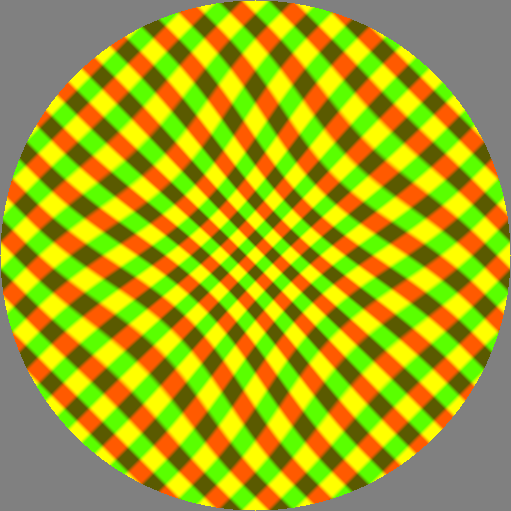
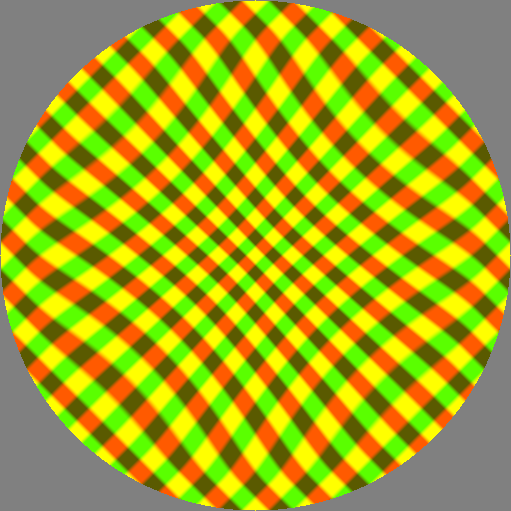
Update doc for improved "taper" in StretchSpot::getColor().

Changed region(s): [[0.0587, 0.0587, 0.9393, 0.9393], [0.2935, 0.2935, 0.7045, 0.7045]]

diff --git a/docs/index.html b/docs/index.html
@@ -132,16 +132,33 @@
       <img src="images/20200702_ss_new_020.png" alt="new StretchSpot(0.20, radius, Vec2(), plaid)"
         title="new StretchSpot(0.20, radius, Vec2(), plaid)" height="511" width="511">
       <p>[<strong>Update July 3</strong>] I was a little concerned about the
-        shape of some of those stripes in that last image.I tried it again using
-        <em>ColoredSpots</em> to overlay finer grain details on <code>plaid</code>.
-        The basic geometry of the <em>StretchSpot</em> seems correct, but I am
-        not happy with the profile of the radial scale transition. I feel like
-        there may be too much area at the center at nearly the lowest scale
-        factor (0.2) and and an abrupt transition outside of that where the
-        spots are stretched into long spoke-like ellipses. I'm trying to decide
-        if this is worth “fixing.”</p>
+        shape of some of those stripes in the previous version of that last
+        image (now replaced). I tried it again using <em>ColoredSpots</em> to
+        overlay finer grain details on <code>plaid</code>. The basic geometry
+        of the <em>StretchSpot</em> seemed correct, but I was not happy with
+        the “taper” of the radial scale transition. I felt like there was too
+        much area at the center at nearly the lowest scale factor (0.2) and and
+        an abrupt transition outside of that where the spots are stretched into
+        long spoke-like ellipses. So I rewrote that one-liner in the code, here
+        is before and after: </p>
       <pre>StretchSpot(0.20, radius, Vec2(), ColoredSpots(0.8, 0.02, 0.02, 0.01, 0, plaid, Uniform(0)))</pre>
-      <img src="images/20200703_ss_spots_020.png" alt="" title="" height="511" width="511">
+      <img src="images/20200703_ss_spots_020.png" alt="yesterday's troubling taper"
+        title="yesterday's troubling taper" height="511" width="511"> <img src="images/20200704_ss_spots_020.png"
+        alt="today's improved taper" title="today's improved taper" height="511"
+        width="511">
+      <p>The code transforms the general case to a unit radius disk at the
+        origin. Each point is remapped according to its radius. A non-linearity
+        is applied to this radius to produce a scale factor, which is clipped to
+        one. Before there was a sinusoid transition from <code>center_magnification</code>
+        (the first argument to <em>StretchSpot</em>) to 1. This sinusoid worked
+        well to blend the exterior scale factor of 1 (at the outside of the
+        texture in these examples) into the stretched interior, but it was “too
+        smooth” at the center. The new transition blends that sinusoid with a
+        linear ramp, using a highly exponentiated mapping (like a gamma), so
+        that the curve is mostly linear, except just before the “1 end” where it
+        smooths into the constant 1 value outside: <code>interpolate(pow(r, 5),
+          r, sinusoid(r))</code>. After this change I re-rendered the right side
+        images above to use this revised “scale taper.” </p>
       <p>As noted on <a href="http://www.red3d.com/cwr/texsyn/diary.html#20090104">January
           4, 2009</a>, the bugs and “near misses” for this operator produce
         interesting results. This was an early test:</p>

diff --git a/main.cpp b/main.cpp
@@ -2913,31 +2913,31 @@ int main(int argc, const char * argv[])
     
     float radius = 0.9;
     // Texture::displayAndFile(plaid);
-    Texture::displayAndFile(StretchSpot(1.50, radius, Vec2(), plaid)
-                            ); // , path + "ss_old_150");
-    Texture::displayAndFile(StretchSpot(0.67, radius, Vec2(), plaid)
-                            ); // , path + "ss_old_067");
-    Texture::displayAndFile(StretchSpot(2.00, radius, Vec2(), plaid)
-                            ); // , path + "ss_old_200");
-    Texture::displayAndFile(StretchSpot(0.50, radius, Vec2(), plaid)
-                            ); // , path + "ss_old_050");
-    Texture::displayAndFile(StretchSpot(5.00, radius, Vec2(), plaid)
-                            ); // , path + "ss_old_500");
-    Texture::displayAndFile(StretchSpot(0.20, radius, Vec2(), plaid)
-                            ); // , path + "ss_old_020");
+    //Texture::displayAndFile(StretchSpot(1.50, radius, Vec2(), plaid)
+    //                        ); // , path + "ss_old_150");
+    //Texture::displayAndFile(StretchSpot(0.67, radius, Vec2(), plaid)
+    //                        ); // , path + "ss_old_067");
+    //Texture::displayAndFile(StretchSpot(2.00, radius, Vec2(), plaid)
+    //                        ); // , path + "ss_old_200");
+    //Texture::displayAndFile(StretchSpot(0.50, radius, Vec2(), plaid)
+    //                        ); // , path + "ss_old_050");
+    //Texture::displayAndFile(StretchSpot(5.00, radius, Vec2(), plaid)
+    //                        ); // , path + "ss_old_500");
+    //Texture::displayAndFile(StretchSpot(0.20, radius, Vec2(), plaid)
+    //                        ); // , path + "ss_old_020");
     
-    //Texture::displayAndFile(NeoStretchSpot(1.50, radius, Vec2(), plaid)
-    //                        ); // , path + "ss_new_150");
-    //Texture::displayAndFile(NeoStretchSpot(0.67, radius, Vec2(), plaid)
-    //                        ); // , path + "ss_new_067");
-    //Texture::displayAndFile(NeoStretchSpot(2.00, radius, Vec2(), plaid)
-    //                        ); // , path + "ss_new_200");
-    //Texture::displayAndFile(NeoStretchSpot(0.50, radius, Vec2(), plaid)
-    //                        ); // , path + "ss_new_050");
-    //Texture::displayAndFile(NeoStretchSpot(5.00, radius, Vec2(), plaid)
-    //                        ); // , path + "ss_new_500");
-    //Texture::displayAndFile(NeoStretchSpot(0.20, radius, Vec2(), plaid)
-    //                        ); // , path + "ss_new_020");
+    Texture::displayAndFile(StretchSpot(1.50, radius, Vec2(), plaid)
+                            ); // , path + "ss_new_150");
+    Texture::displayAndFile(StretchSpot(0.67, radius, Vec2(), plaid)
+                            ); // , path + "ss_new_067");
+    Texture::displayAndFile(StretchSpot(2.00, radius, Vec2(), plaid)
+                            ); // , path + "ss_new_200");
+    Texture::displayAndFile(StretchSpot(0.50, radius, Vec2(), plaid)
+                            ); // , path + "ss_new_050");
+    Texture::displayAndFile(StretchSpot(5.00, radius, Vec2(), plaid)
+                            ); // , path + "ss_new_500");
+    Texture::displayAndFile(StretchSpot(0.20, radius, Vec2(), plaid)
+                            ); // , path + "ss_new_020");
     
     //Texture::displayAndFile(NeoStretchSpot(-2.0, radius, Vec2(), plaid));
     //Texture::displayAndFile(NeoStretchSpot(-0.5, radius, Vec2(), plaid));
@@ -2945,33 +2945,30 @@ int main(int argc, const char * argv[])
     //Texture::displayAndFile(NeoStretchSpot(2.0, -radius, Vec2(), plaid));
     //Texture::displayAndFile(NeoStretchSpot(2.0, -0.1, Vec2(), plaid));
 
+    path = "/Users/cwr/Desktop/TexSyn_temp/20200704_";
     Texture::displayAndFile(StretchSpot(0.20, radius, Vec2(),
-                                        ColoredSpots(0.8, 0.02, 0.02,
-                                                     0.01, 0,
-                                                     plaid,
-                                                     Uniform(0))
-                                                    )
-//                            , "/Users/cwr/Desktop/TexSyn_temp/20200703_" +
-//                            std::string("ss_spots_020"));
-                            );
+                                        ColoredSpots(0.8, 0.02, 0.02, 0.01, 0,
+                                                     plaid, Uniform(0)))
+                            ); // , path + std::string("ss_spots_020"));
 
-    for (float x = 0; x <= 1; x += 0.01)
-    {
-        std::cout << x;
-        std::cout << ",";
-        std::cout << sinusoid(x);
-        std::cout << ",";
-        std::cout << (x + sinusoid(x)) / 2;
-        std::cout << ",";
-        std::cout << interpolate(x, x, sinusoid(x));
-        std::cout << ",";
-        std::cout << interpolate(sinusoid(x), x, sinusoid(x));
-        std::cout << ",";
-        std::cout << interpolate(std::pow(x, 2), x, sinusoid(x));
-        std::cout << ",";
-        std::cout << interpolate(std::pow(x, 5), x, sinusoid(x));
-        std::cout << std::endl;
-    }
+    // I cut-n-pasted this text into a spread sheet to visualize the curves.
+    //for (float x = 0; x <= 1; x += 0.01)
+    //{
+    //    std::cout << x;
+    //    std::cout << ",";
+    //    std::cout << sinusoid(x);
+    //    std::cout << ",";
+    //    std::cout << (x + sinusoid(x)) / 2;
+    //    std::cout << ",";
+    //    std::cout << interpolate(x, x, sinusoid(x));
+    //    std::cout << ",";
+    //    std::cout << interpolate(sinusoid(x), x, sinusoid(x));
+    //    std::cout << ",";
+    //    std::cout << interpolate(std::pow(x, 2), x, sinusoid(x));
+    //    std::cout << ",";
+    //    std::cout << interpolate(std::pow(x, 5), x, sinusoid(x));
+    //    std::cout << std::endl;
+    //}
     
     Texture::waitKey();
 
